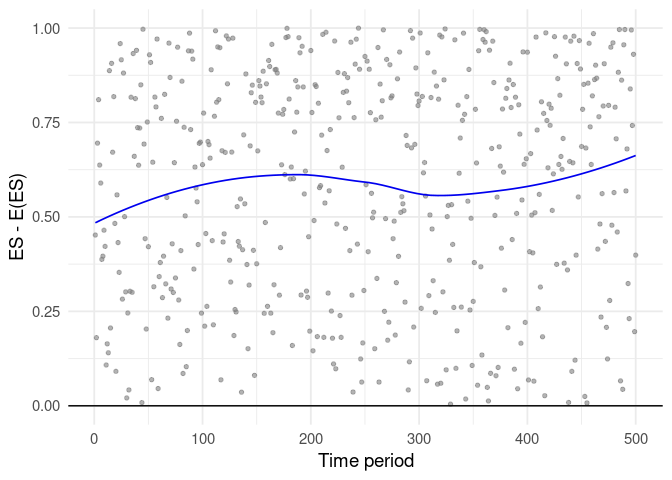
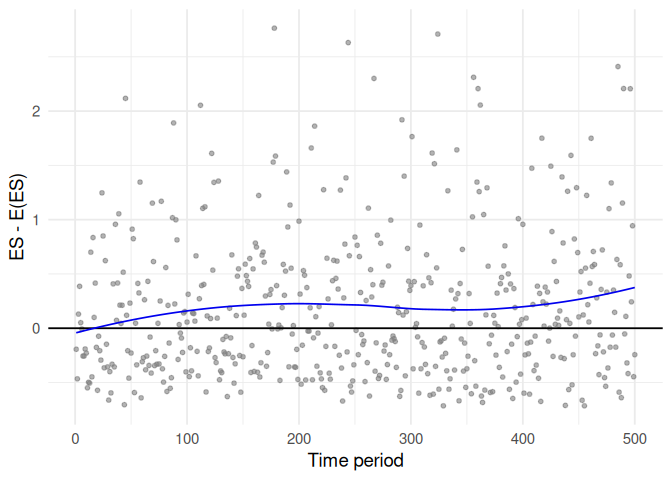
fix example and add Makevars files

diff --git a/src/procs_es.cpp b/src/procs_es.cpp
@@ -1,4 +1,4 @@
-// [[Rcpp::depends("RcppArmadillo")]]
+// [[Rcpp::depends(RcppArmadillo)]]
 #include <RcppArmadillo.h>
 #include <Rcpp.h>
 #include <cmath>

diff --git a/readme.md b/readme.md
@@ -109,21 +109,21 @@ t_hac(d) # Entropy test
 ## Calibration plot
 
 Here we visualize the entropy test results for the simulated data. The
-plot is in the same style as Figure 2 in the paper.
+plot is in the same style as the left panel of Figure 1 in the paper.
 
 ``` r
 # load ggplot2 package
 library(ggplot2)
 
 # make plot
-ggplot(data.frame(t = 1:n, u = u), aes(x = t, y = u)) + 
+ggplot(data.frame(t = 1:n, d = d), aes(x = t, y = d)) + 
   xlab("Time period") + ylab("ES - E(ES)") + 
   geom_point(pch = 20, col = grey(.5, .6), size = I(2)) + 
   theme_minimal(base_size = 14) + 
   geom_hline(yintercept = 0) + 
-  geom_smooth(se = FALSE, color = "blue2", size = I(.6)) 
+  geom_smooth(se = FALSE, color = "blue2", linewidth = I(.6)) 
 ```
 
-    ## `geom_smooth()` using method = 'loess' and formula 'y ~ x'
+    ## `geom_smooth()` using method = 'loess' and formula = 'y ~ x'
 
 ![](readme_files/figure-gfm/unnamed-chunk-3-1.png)<!-- -->